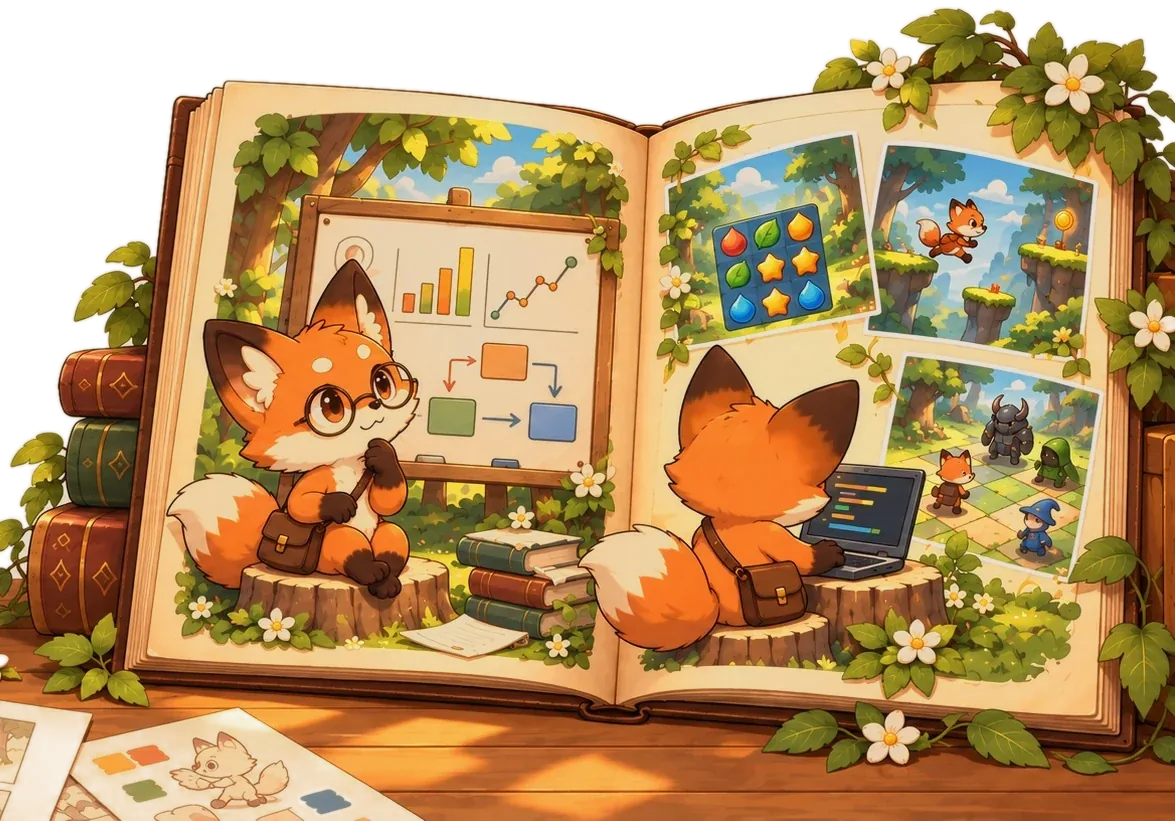
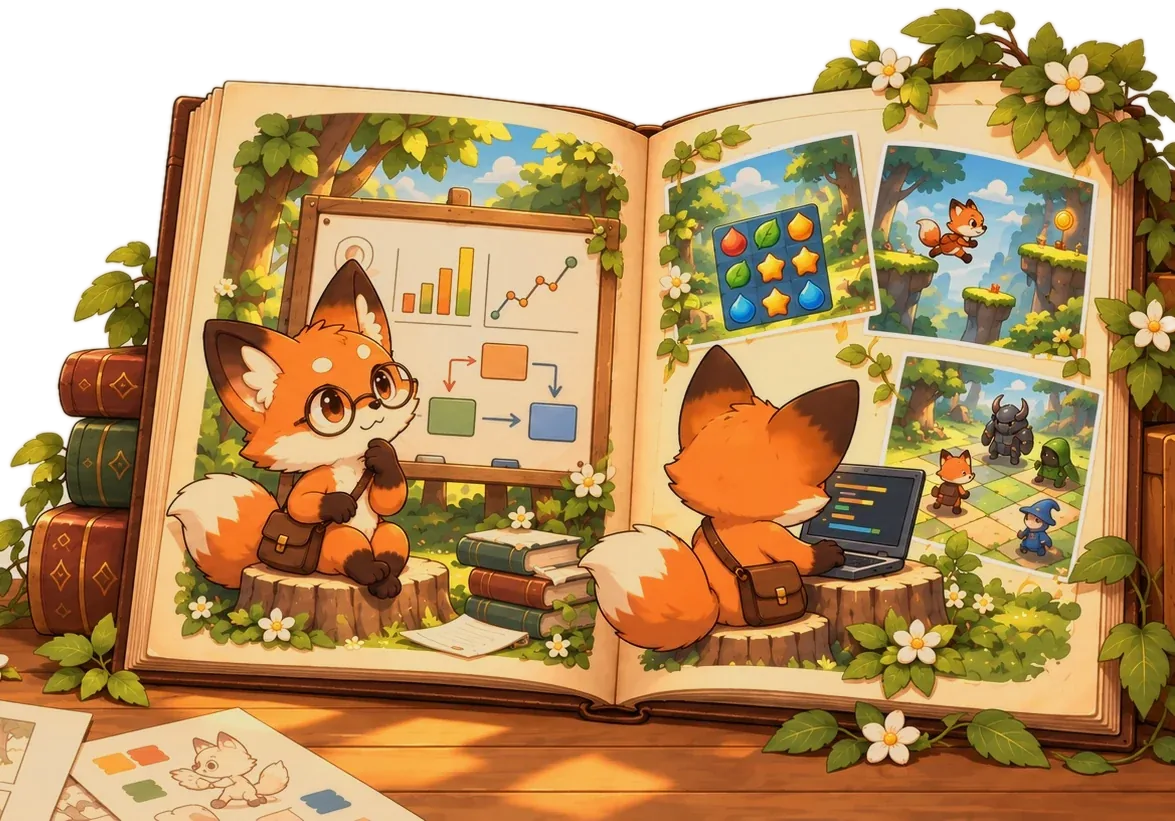
fix(home): keep the desk sketch pages solid at night and add fireflies to the intro
The night intro painting only cuts out the wall now, so the cream sketch
pages on the desk no longer turn see-through grey. The intro desk gets
the same fireflies as the sections.

diff --git a/index.html b/index.html
@@ -2784,6 +2784,9 @@ assign art = '/assets/images/Redesign/' | relative_url %}
           height: var(--art-h);
           pointer-events: none;
         }
+        html[data-mode="night"] .hero__intro .fireflies {
+          height: 62%; /* the desk painting fills about the lower 60% of the intro */
+        }
       }
       .firefly {
         position: absolute;
@@ -3792,9 +3795,9 @@ assign art = '/assets/images/Redesign/' | relative_url %}
         modeBtn.blur(); // ponytail: a focused button keeps .nav__links:focus-within open, so the tab would never collapse
       });
 
-      // Fireflies: seven per scene in the painted band at the bottom: five over the left and right edges, two low in the middle under the cards. CSS shows them only at night.
+      // Fireflies: seven per scene (the intro desk and the three sections) in the painted band at the bottom: five over the left and right edges, two low in the middle. CSS shows them only at night.
       if (!still) {
-        for (const id of ["design", "dev", "resume"]) {
+        for (const scene of document.querySelectorAll(".hero__intro, #design, #dev, #resume")) {
           const box = document.createElement("div");
           box.className = "fireflies";
           box.setAttribute("aria-hidden", "true");
@@ -3808,7 +3811,7 @@ assign art = '/assets/images/Redesign/' | relative_url %}
             f.style.cssText = `--x:${x.toFixed(1)}%;--y:${y.toFixed(1)}%;--t:${t.toFixed(1)}s;--delay:${(-Math.random() * t).toFixed(1)}s;--dx:${Math.round(Math.random() * 80 - 40)}px;--dy:${Math.round(Math.random() * 50 - 25)}px`;
             box.append(f);
           }
-          document.getElementById(id).prepend(box);
+          scene.prepend(box);
         }
       }
 
